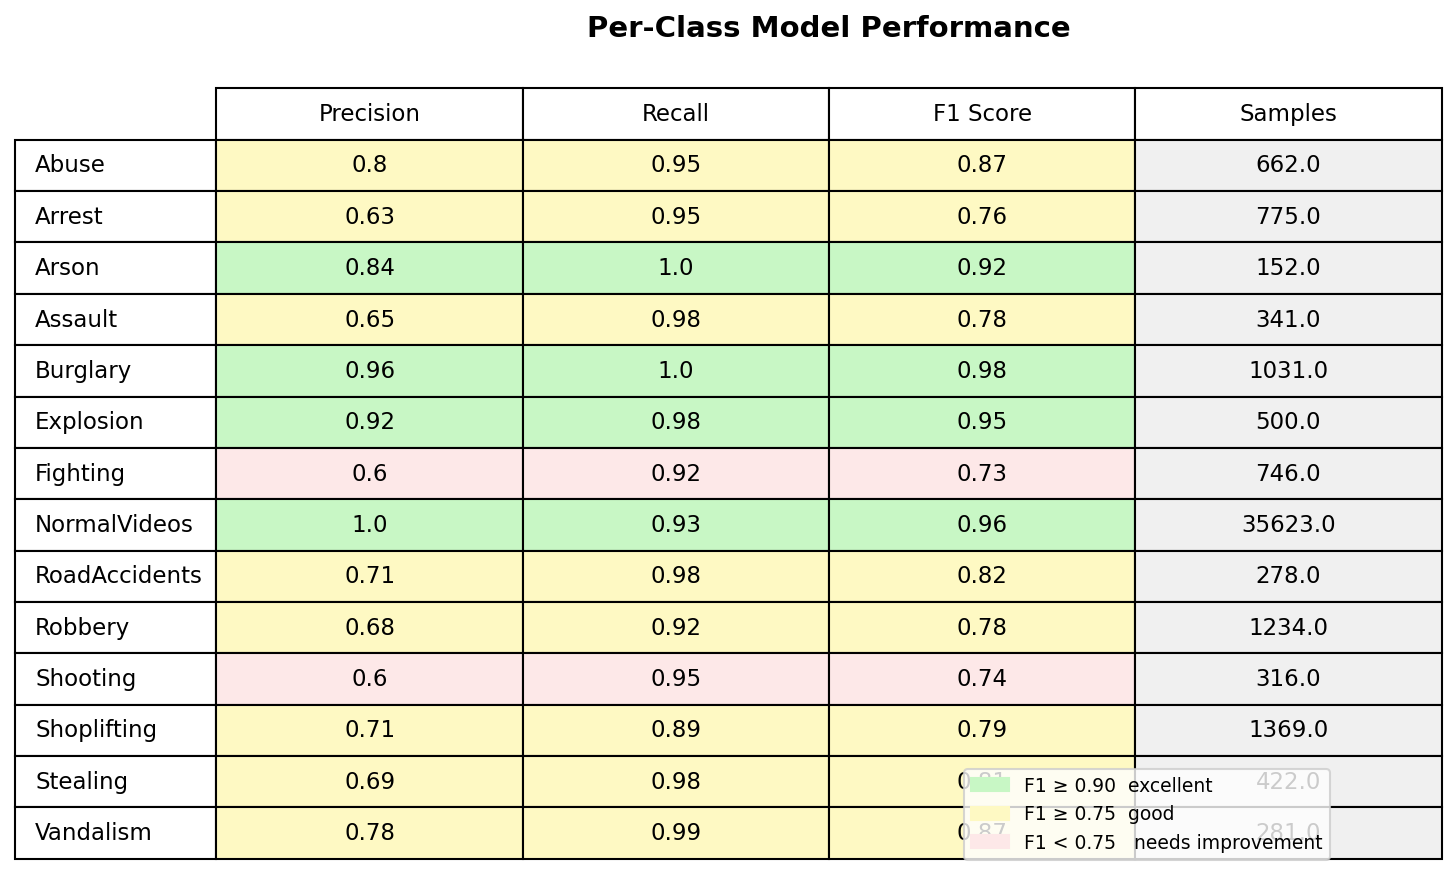
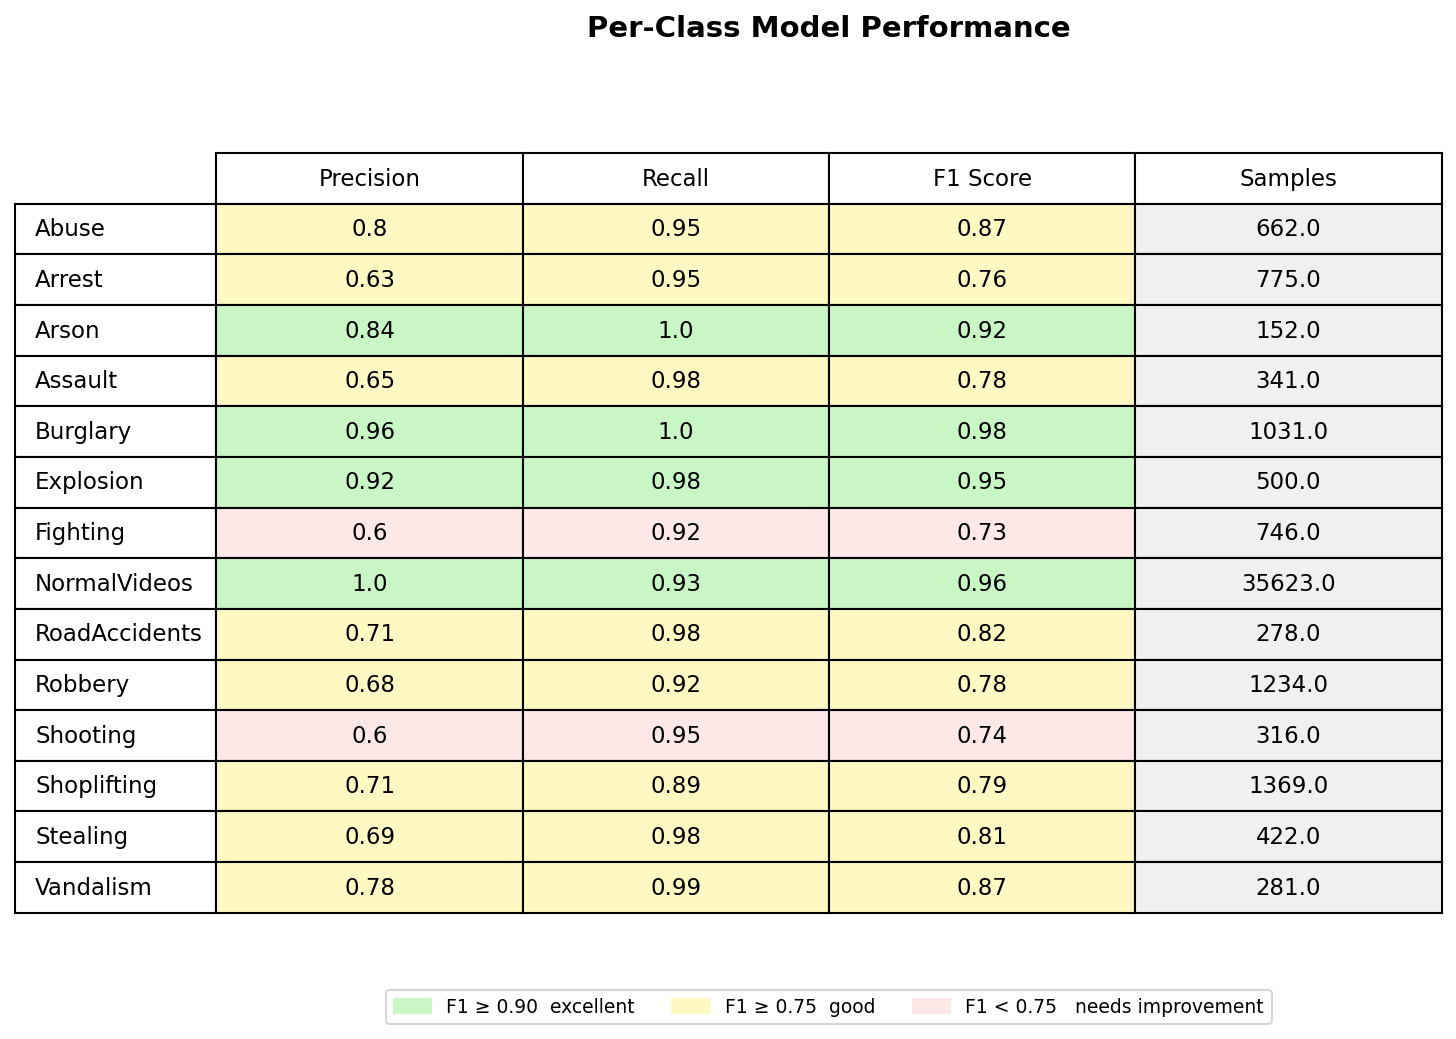
fix performance table legend

diff --git a/src/models/results_summary.py b/src/models/results_summary.py
@@ -14,7 +14,6 @@ from src.features.build_sequences import build_sequences
 with open("configs/config.yaml") as f:
     config = yaml.safe_load(f)
 
-# load data
 df = pd.read_csv(config["data"]["keypoints_path"])
 df = normalize_keypoints(df)
 X, y, label_map = build_sequences(df, config["features"]["sequence_length"])
@@ -29,7 +28,6 @@ device = get_device()
 X_val = torch.tensor(X_val).to(device)
 y_val = torch.tensor(y_val).to(device)
 
-# load model
 model = LSTMClassifier(
     input_size=config["features"]["input_size"],
     hidden_size=config["model"]["lstm"]["hidden_size"],
@@ -57,8 +55,7 @@ df_report = df_report.loc[labels]
 df_report = df_report[["precision", "recall", "f1-score", "support"]]
 df_report = df_report.round(2)
 
-# plot results table
-fig, ax = plt.subplots(figsize=(10, 6))
+fig, ax = plt.subplots(figsize=(10, 7))
 ax.axis("off")
 
 colors = []
@@ -84,11 +81,17 @@ table.auto_set_font_size(False)
 table.set_fontsize(11)
 table.scale(1.2, 1.8)
 
-# legend
 green = mpatches.Patch(color="#c8f7c5", label="F1 ≥ 0.90  excellent")
 yellow = mpatches.Patch(color="#fef9c3", label="F1 ≥ 0.75  good")
 red = mpatches.Patch(color="#fde8e8", label="F1 < 0.75   needs improvement")
-ax.legend(handles=[green, yellow, red], loc="lower right", fontsize=9)
+
+ax.legend(
+    handles=[green, yellow, red],
+    loc="lower center",
+    bbox_to_anchor=(0.5, -0.05),
+    ncol=3,
+    fontsize=9
+)
 
 plt.title("Per-Class Model Performance", fontsize=14, fontweight="bold", pad=20)
 plt.tight_layout()